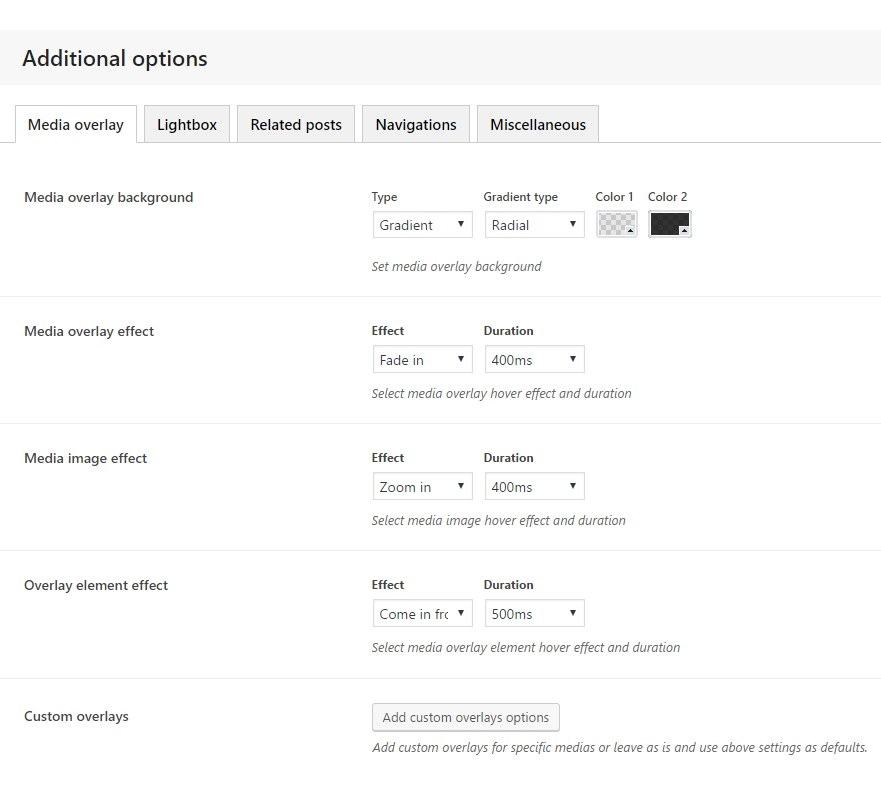
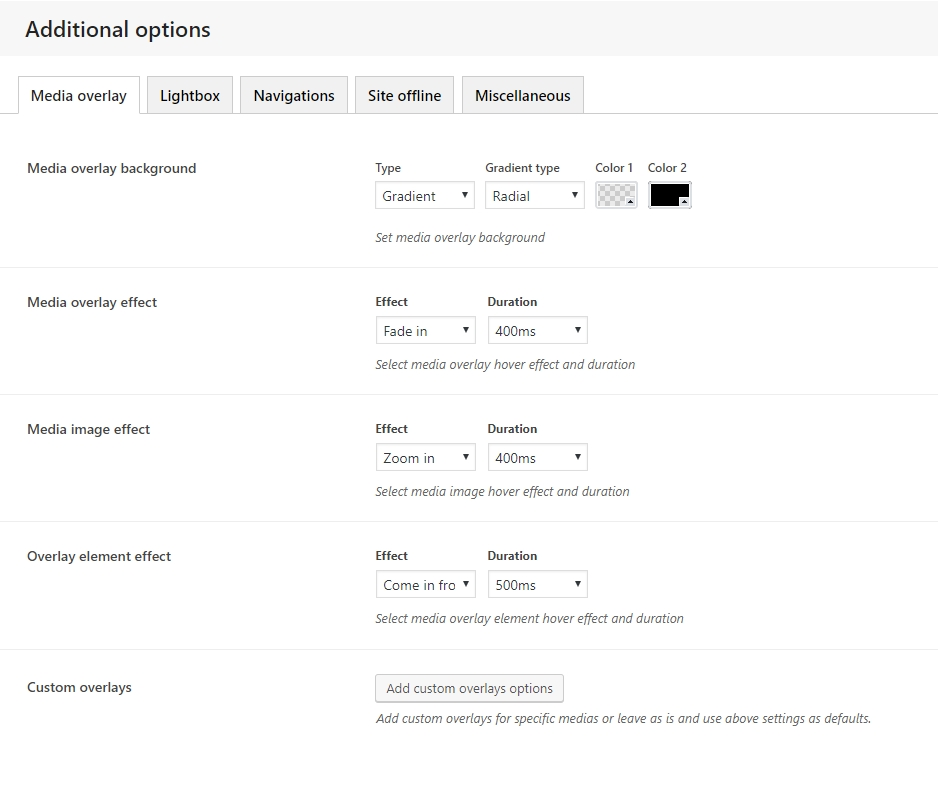
Additional options update

diff --git a/pages/theme-settings/additional-options.md b/pages/theme-settings/additional-options.md
@@ -1,7 +1,7 @@
 <div class="thz-lightbox-gallery" markdown="1">
 <div class="thz-doc-image max">
-<a class="thz-lightbox mfp-image" href="../../docs-media/additional-options.jpg" data-mfp-title="Creatus WordPress Theme Additional options" data-modal-size="large">
-	<img src="../../docs-media/additional-options.jpg" alt="Creatus WordPress Theme Additional options" />
+<a class="thz-lightbox mfp-image" href="../../docs-media/additional-options.jpg?v=2" data-mfp-title="Creatus WordPress Theme Additional options" data-modal-size="large">
+	<img src="../../docs-media/additional-options.jpg?v=2" alt="Creatus WordPress Theme Additional options" />
 </a>
 </div>
 
@@ -14,8 +14,8 @@ To access Creatus __Additional Options__ please go to __Appearance__ >  __Theme 
 
 1. <a href="#overlay" class="thz-scroll">__Media overlay__</a> &nbsp;-&nbsp; Global media overlay options.
 1. <a href="#lightbox" class="thz-scroll">__Lightbox__</a> &nbsp;-&nbsp; Global lightbox options.
-1. <a href="#related" class="thz-scroll">__Related posts__</a> &nbsp;-&nbsp; Global related posts options.
 1. <a href="#navs" class="thz-scroll">__Navigations__</a> &nbsp;-&nbsp; Global post navigation options.
+1. <a href="#offline" class="thz-scroll">__Site offline__</a> &nbsp;-&nbsp; Global site offline options.
 1. <a href="#misc" class="thz-scroll">__Miscellaneous__</a> &nbsp;-&nbsp; Global miscellaneous options.	
 
 
@@ -23,8 +23,8 @@ To access Creatus __Additional Options__ please go to __Appearance__ >  __Theme 
 <div id="overlay" markdown="1">
 ### Media overlay
 <div class="thz-doc-image max">
-<a class="thz-lightbox mfp-image" href="../../docs-media/media-overlay-options.jpg" data-mfp-title="Creatus WordPress Theme Media overlay options" data-modal-size="large">
-	<img src="../../docs-media/media-overlay-options.jpg" alt="Creatus WordPress Theme Media overlay options" />
+<a class="thz-lightbox mfp-image" href="../../docs-media/media-overlay-options.jpg?v=2" data-mfp-title="Creatus WordPress Theme Media overlay options" data-modal-size="large">
+	<img src="../../docs-media/media-overlay-options.jpg?v=2" alt="Creatus WordPress Theme Media overlay options" />
 </a>
 </div>
 
@@ -43,8 +43,8 @@ __Media overlay__ section tab contains following options;
 <div id="lightbox" markdown="1">
 ### Lightbox
 <div class="thz-doc-image max">
-<a class="thz-lightbox mfp-image" href="../../docs-media/lightbox-options.jpg" data-mfp-title="Creatus WordPress Theme Lightbox options" data-modal-size="large">
-	<img src="../../docs-media/lightbox-options.jpg" alt="Creatus WordPress Theme Lightbox options" />
+<a class="thz-lightbox mfp-image" href="../../docs-media/lightbox-options.jpg?v=2" data-mfp-title="Creatus WordPress Theme Lightbox options" data-modal-size="large">
+	<img src="../../docs-media/lightbox-options.jpg?v=2" alt="Creatus WordPress Theme Lightbox options" />
 </a>
 </div>
 
@@ -55,31 +55,7 @@ __Lightbox__ section tab contains following options;
 1. __Backdrop Opacity__ &nbsp;-&nbsp; Set backdrop ( popup background ) opacity.
 1. __Popup effect__ &nbsp;-&nbsp; Select popup window opening effect.
 1. __Show thumbnails slider__ &nbsp;-&nbsp; Show/hide lightbox thumbnails slider.
-</div>
-
-
-
-<div id="related" markdown="1">
-### Related posts
-<div class="thz-doc-image max">
-<a class="thz-lightbox mfp-image" href="../../docs-media/related-posts-options.jpg" data-mfp-title="Creatus WordPress Theme Related posts options" data-modal-size="large">
-	<img src="../../docs-media/related-posts-options.jpg" alt="Creatus WordPress Theme Related posts options" />
-</a>
-</div>
-
-__Related posts__ section tab is split in to following sub tabs;
-
-
-1. <a class="thz-lightbox mfp-image" href="../../docs-media/related-general-options.jpg" data-mfp-title="Creatus WordPress Theme Related general options" data-modal-size="large">
-	__General__</a>
-1. <a class="thz-lightbox mfp-image" href="../../docs-media/related-media-options.jpg" data-mfp-title="Creatus WordPress Theme Related media options" data-modal-size="large">
-	__Media__</a>
-1. <a class="thz-lightbox mfp-image" href="../../docs-media/related-title-options.jpg" data-mfp-title="Creatus WordPress Theme Related title options" data-modal-size="large">
-	__Title__</a>
-1. <a class="thz-lightbox mfp-image" href="../../docs-media/related-intro-text-options.jpg" data-mfp-title="Creatus WordPress Theme Related intro text options" data-modal-size="large">
-	__Intro text__</a>
-
-
+1. __Lightbox mode__ &nbsp;-&nbsp; Select single or group items in a gallery. If single mode the lighbox gallery is inactive.
 </div>
 
 
@@ -87,28 +63,43 @@ __Related posts__ section tab is split in to following sub tabs;
 <div id="navs" markdown="1">
 ### Navigations
 <div class="thz-doc-image max">
-<a class="thz-lightbox mfp-image" href="../../docs-media/navigations-options.jpg" data-mfp-title="Creatus WordPress Theme Navigations options" data-modal-size="large">
-	<img src="../../docs-media/navigations-options.jpg" alt="Creatus WordPress Theme Navigations options" />
+<a class="thz-lightbox mfp-image" href="../../docs-media/navigations-options.jpg?v=2" data-mfp-title="Creatus WordPress Theme Navigations options" data-modal-size="large">
+	<img src="../../docs-media/navigations-options.jpg?v=2" alt="Creatus WordPress Theme Navigations options" />
 </a>
 </div>
 
 __Navigations__ section tab is split in to following sub tabs;
 
 
-1. <a class="thz-lightbox mfp-image" href="../../docs-media/pagination-options.jpg" data-mfp-title="Creatus WordPress Theme Pagination options" data-modal-size="large">
+1. <a class="thz-lightbox mfp-image" href="../../docs-media/pagination-options.jpg?v=2" data-mfp-title="Creatus WordPress Theme Pagination options" data-modal-size="large">
 	__Pagination__</a>
-1. <a class="thz-lightbox mfp-image" href="../../docs-media/navigation-options.jpg" data-mfp-title="Creatus WordPress Theme Navigations options" data-modal-size="large">
+1. <a class="thz-lightbox mfp-image" href="../../docs-media/navigation-options.jpg?v=2" data-mfp-title="Creatus WordPress Theme Navigations options" data-modal-size="large">
 	__Navigation__</a>
 
 
 
 </div>
 
+<div id="offline" markdown="1">
+### Site offline
+<div class="thz-doc-image max">
+<a class="thz-lightbox mfp-image" href="../../docs-media/site-offline-options.jpg" data-mfp-title="Creatus WordPress Theme Site offline options" data-modal-size="large">
+	<img src="../../docs-media/site-offline-options.jpg" alt="Creatus WordPress Theme Site offline options" />
+</a>
+</div>
+
+__Site offline__ section tab contains following options;
+
+1. __Offline mode__ &nbsp;-&nbsp; Select site offline mode. If you select maintenance as offline mode , the site headers are set as 503 Service Unavailable and search engines are advised to retry after 1 day. We recommend to use the maintenance mode for few days only.
+1. __Offline page__ &nbsp;-&nbsp; Select the offline display page. Start typing to activate the search.
+1. __Access granted__ &nbsp;-&nbsp; Select user roles that can access the site when in offline mode.
+
+
 <div id="misc" markdown="1">
 ### Miscellaneous
 <div class="thz-doc-image max">
-<a class="thz-lightbox mfp-image" href="../../docs-media/miscellaneous-options.jpg" data-mfp-title="Creatus WordPress Theme Miscellaneous options" data-modal-size="large">
-	<img src="../../docs-media/miscellaneous-options.jpg" alt="Creatus WordPress Theme Miscellaneous options" />
+<a class="thz-lightbox mfp-image" href="../../docs-media/miscellaneous-options.jpg?v=2" data-mfp-title="Creatus WordPress Theme Miscellaneous options" data-modal-size="large">
+	<img src="../../docs-media/miscellaneous-options.jpg?v=2" alt="Creatus WordPress Theme Miscellaneous options" />
 </a>
 </div>
 
@@ -120,9 +111,8 @@ __Miscellaneous__ section tab contains following options;
 1. __Overlay search colors__ &nbsp;-&nbsp; Adjust overlay search colors.
 1. __Emojis__ &nbsp;-&nbsp; Activate/deactivate emojis..
 1. __Smooth scroll__ &nbsp;-&nbsp; Activate/deactivate site smooth scroll effect.
-1. __Scroll top anchor__ &nbsp;-&nbsp; This option disables/enables scroll to top anchor.
-1. __Scroll to top metrics__ &nbsp;-&nbsp; Adjust scroll to top anchor metrics.
 1. __Structured data__ &nbsp;-&nbsp; Structured data helps highlight specific website information for search engines.
+1. __Sticky sidebars__ &nbsp;-&nbsp; Activate/deactive sticky sidebar for left or right sidebar positions.
 1. __Page preloader__ &nbsp;-&nbsp; This option disables/enables page preloader.
 1. __Preloader metrics__ &nbsp;-&nbsp; Adjust preloader metrics. 1000ms = 1s.
 1. __Preloader style__ &nbsp;-&nbsp; Select desired preloader style.
